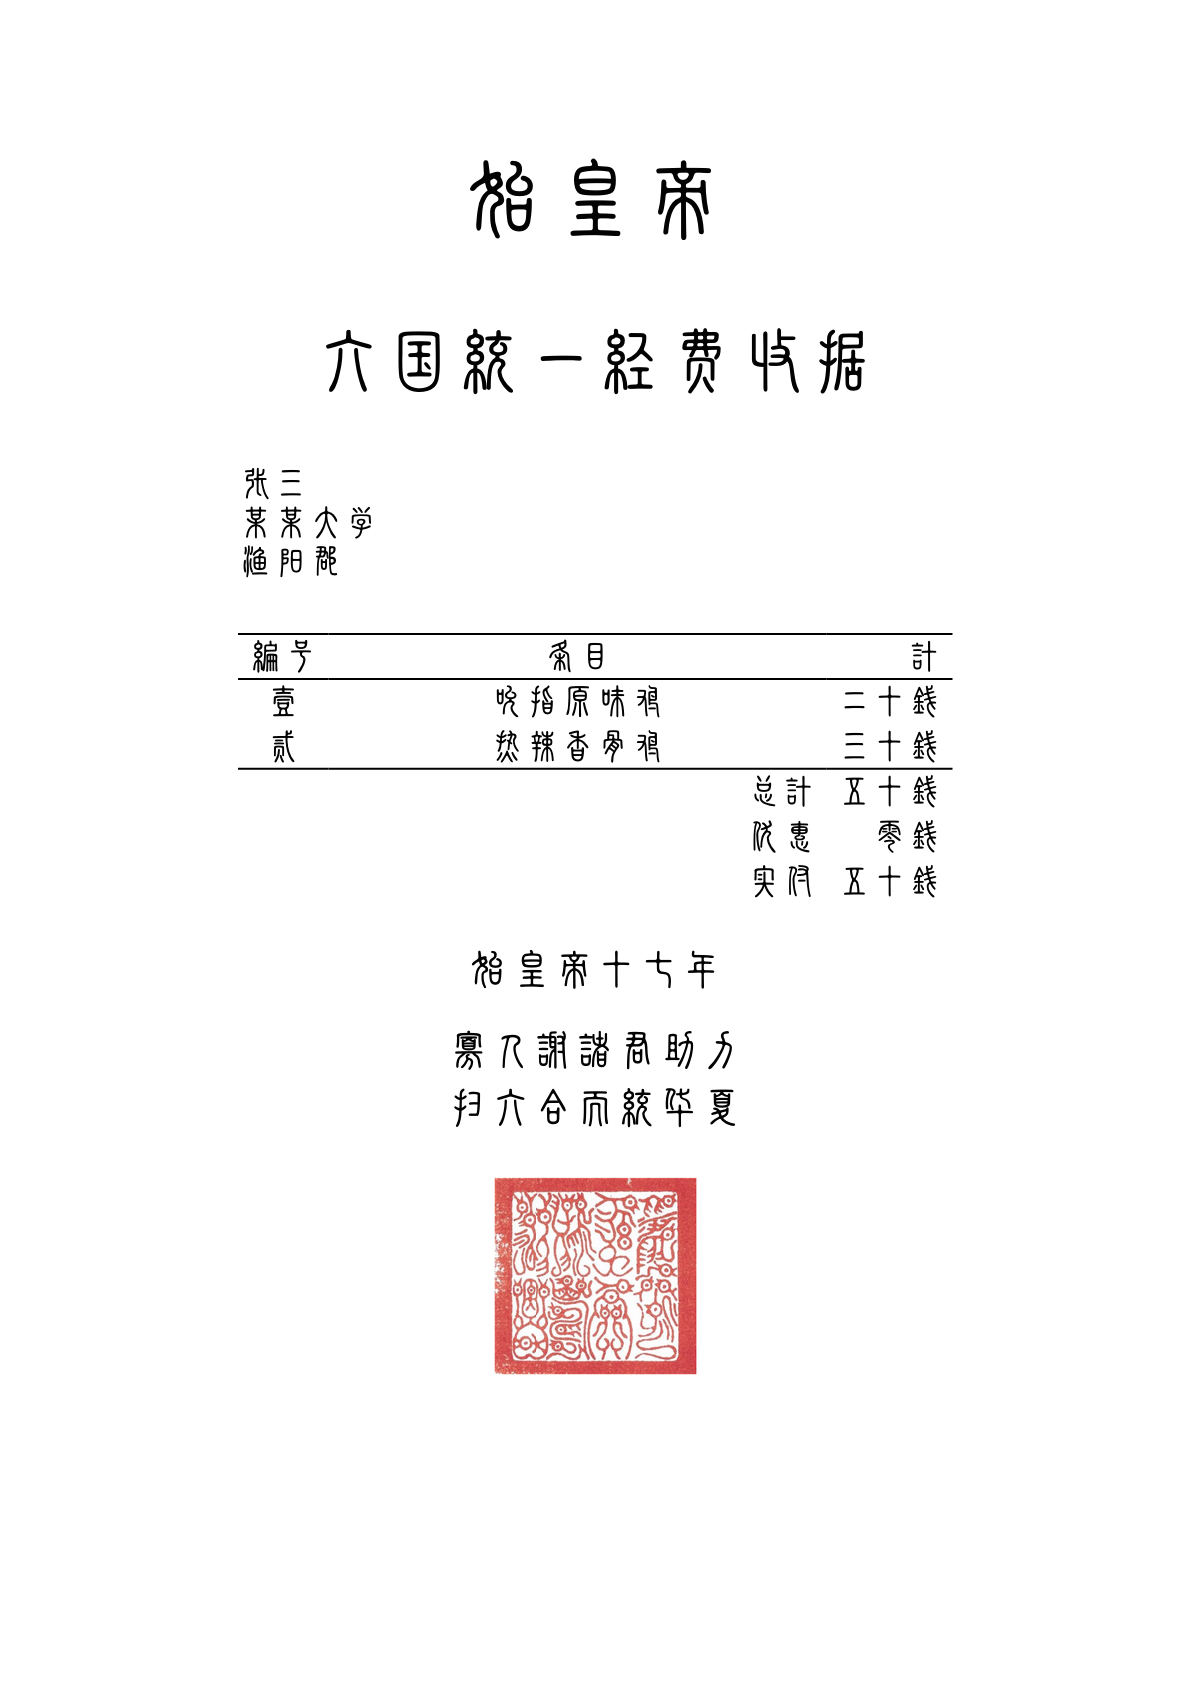
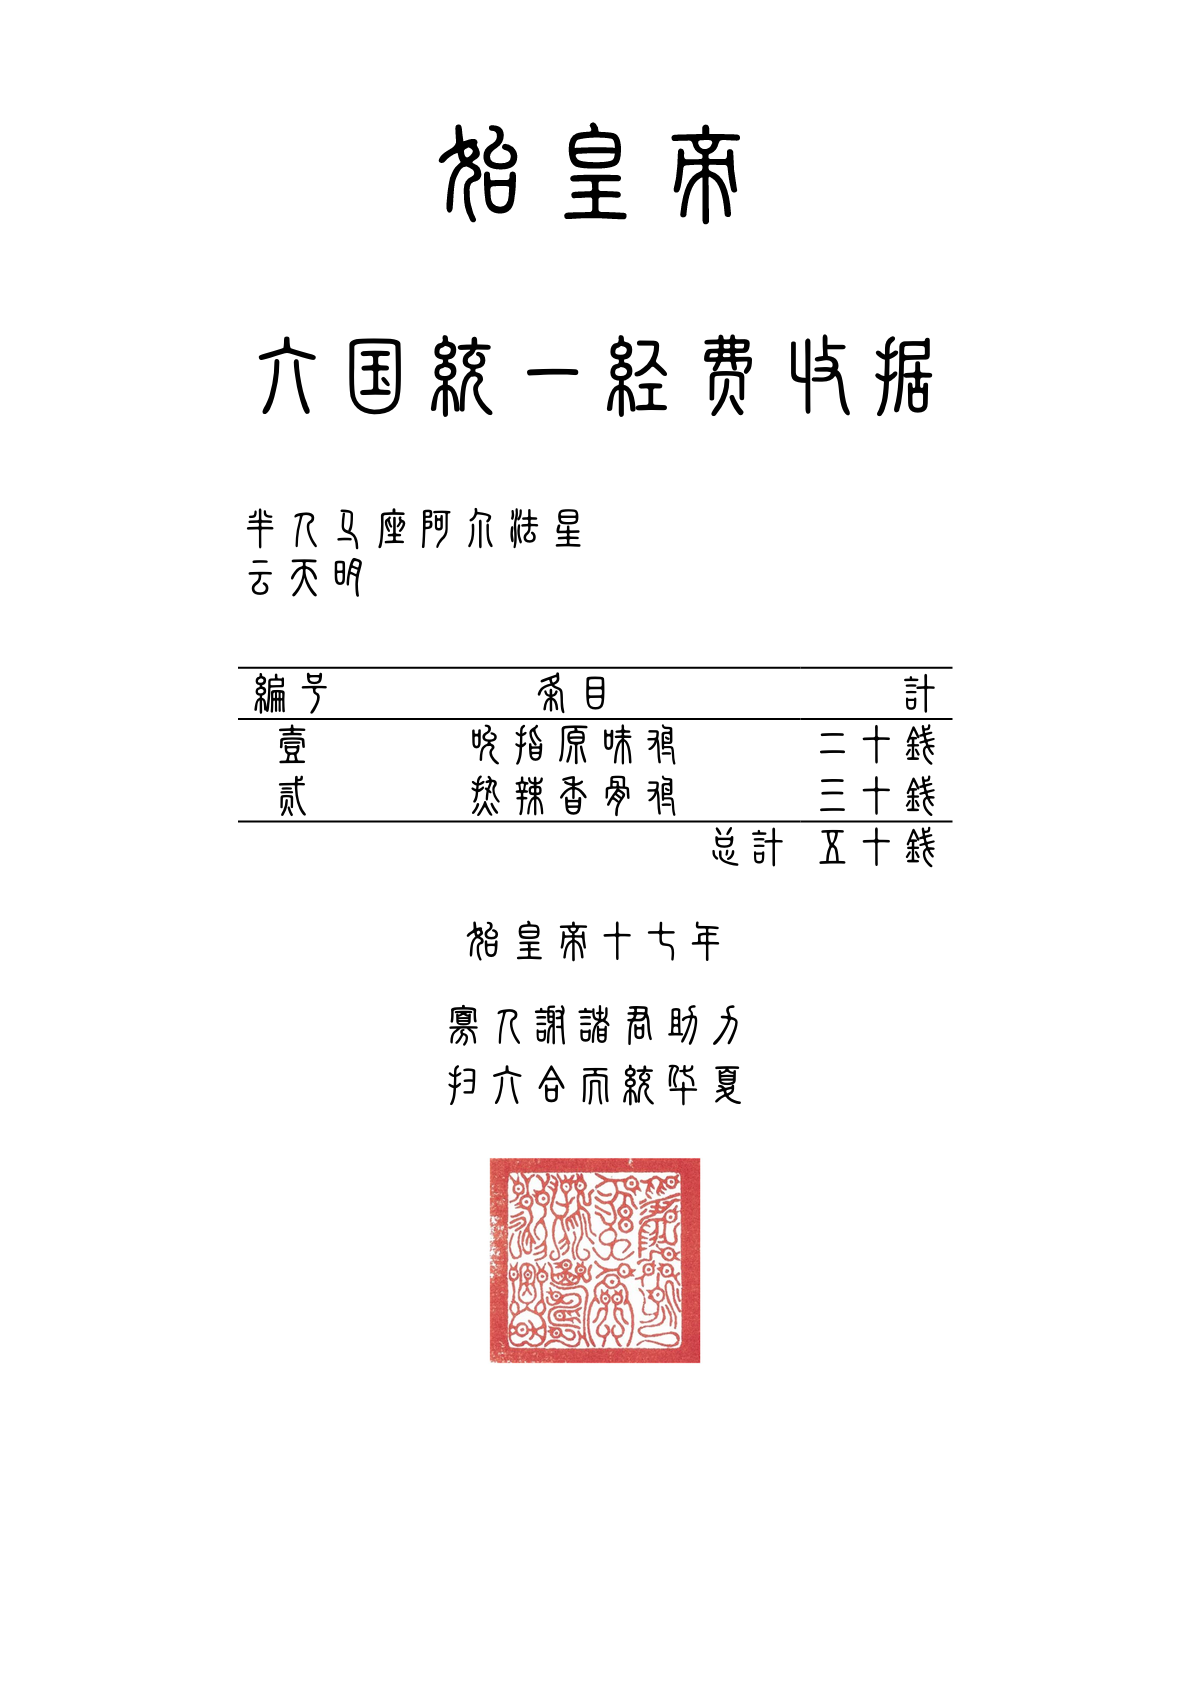
feat: load info from json

diff --git a/README.md b/README.md
@@ -8,8 +8,8 @@
 ## 使用
 
 - VSCode 安装 [Tinymist Typst](https://marketplace.visualstudio.com/items?itemName=myriad-dreamin.tinymist) 插件
-- 编辑 `main.typ` 中的的对应字段
-- 预览 & 导出
+- 编辑 `data.json` 中的的对应字段
+- 预览 `main.typ` 并导出
 
 ## 字体
 
